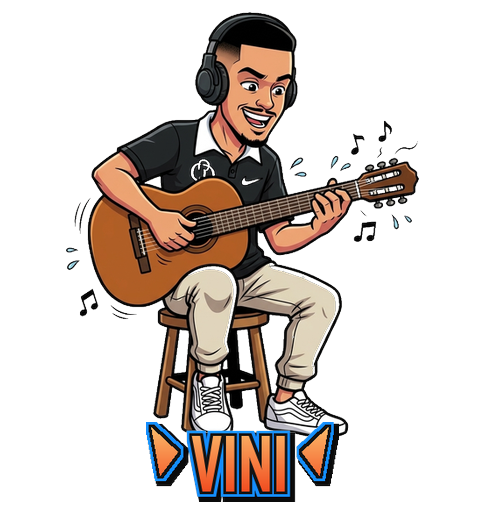
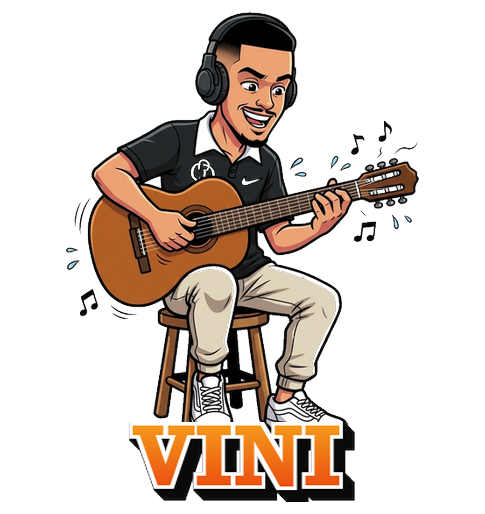
feat(caricatures): padronizar fonte do nome de todos os membros para a tipografia do Roni (Rockwell Bold)

Changed region(s): [[0.2474, 0.8093, 0.7423, 0.9961]]

diff --git a/site-retorica-main/sw.js b/site-retorica-main/sw.js
@@ -1,4 +1,4 @@
-const CACHE_NAME = 'retorica-v34';
+const CACHE_NAME = 'retorica-v35';
 const ASSETS = [
   './index.html',
   './regras.html',

diff --git a/sw.js b/sw.js
@@ -1,4 +1,4 @@
-const CACHE_NAME = 'retorica-v34';
+const CACHE_NAME = 'retorica-v35';
 const ASSETS = [
   './index.html',
   './regras.html',
